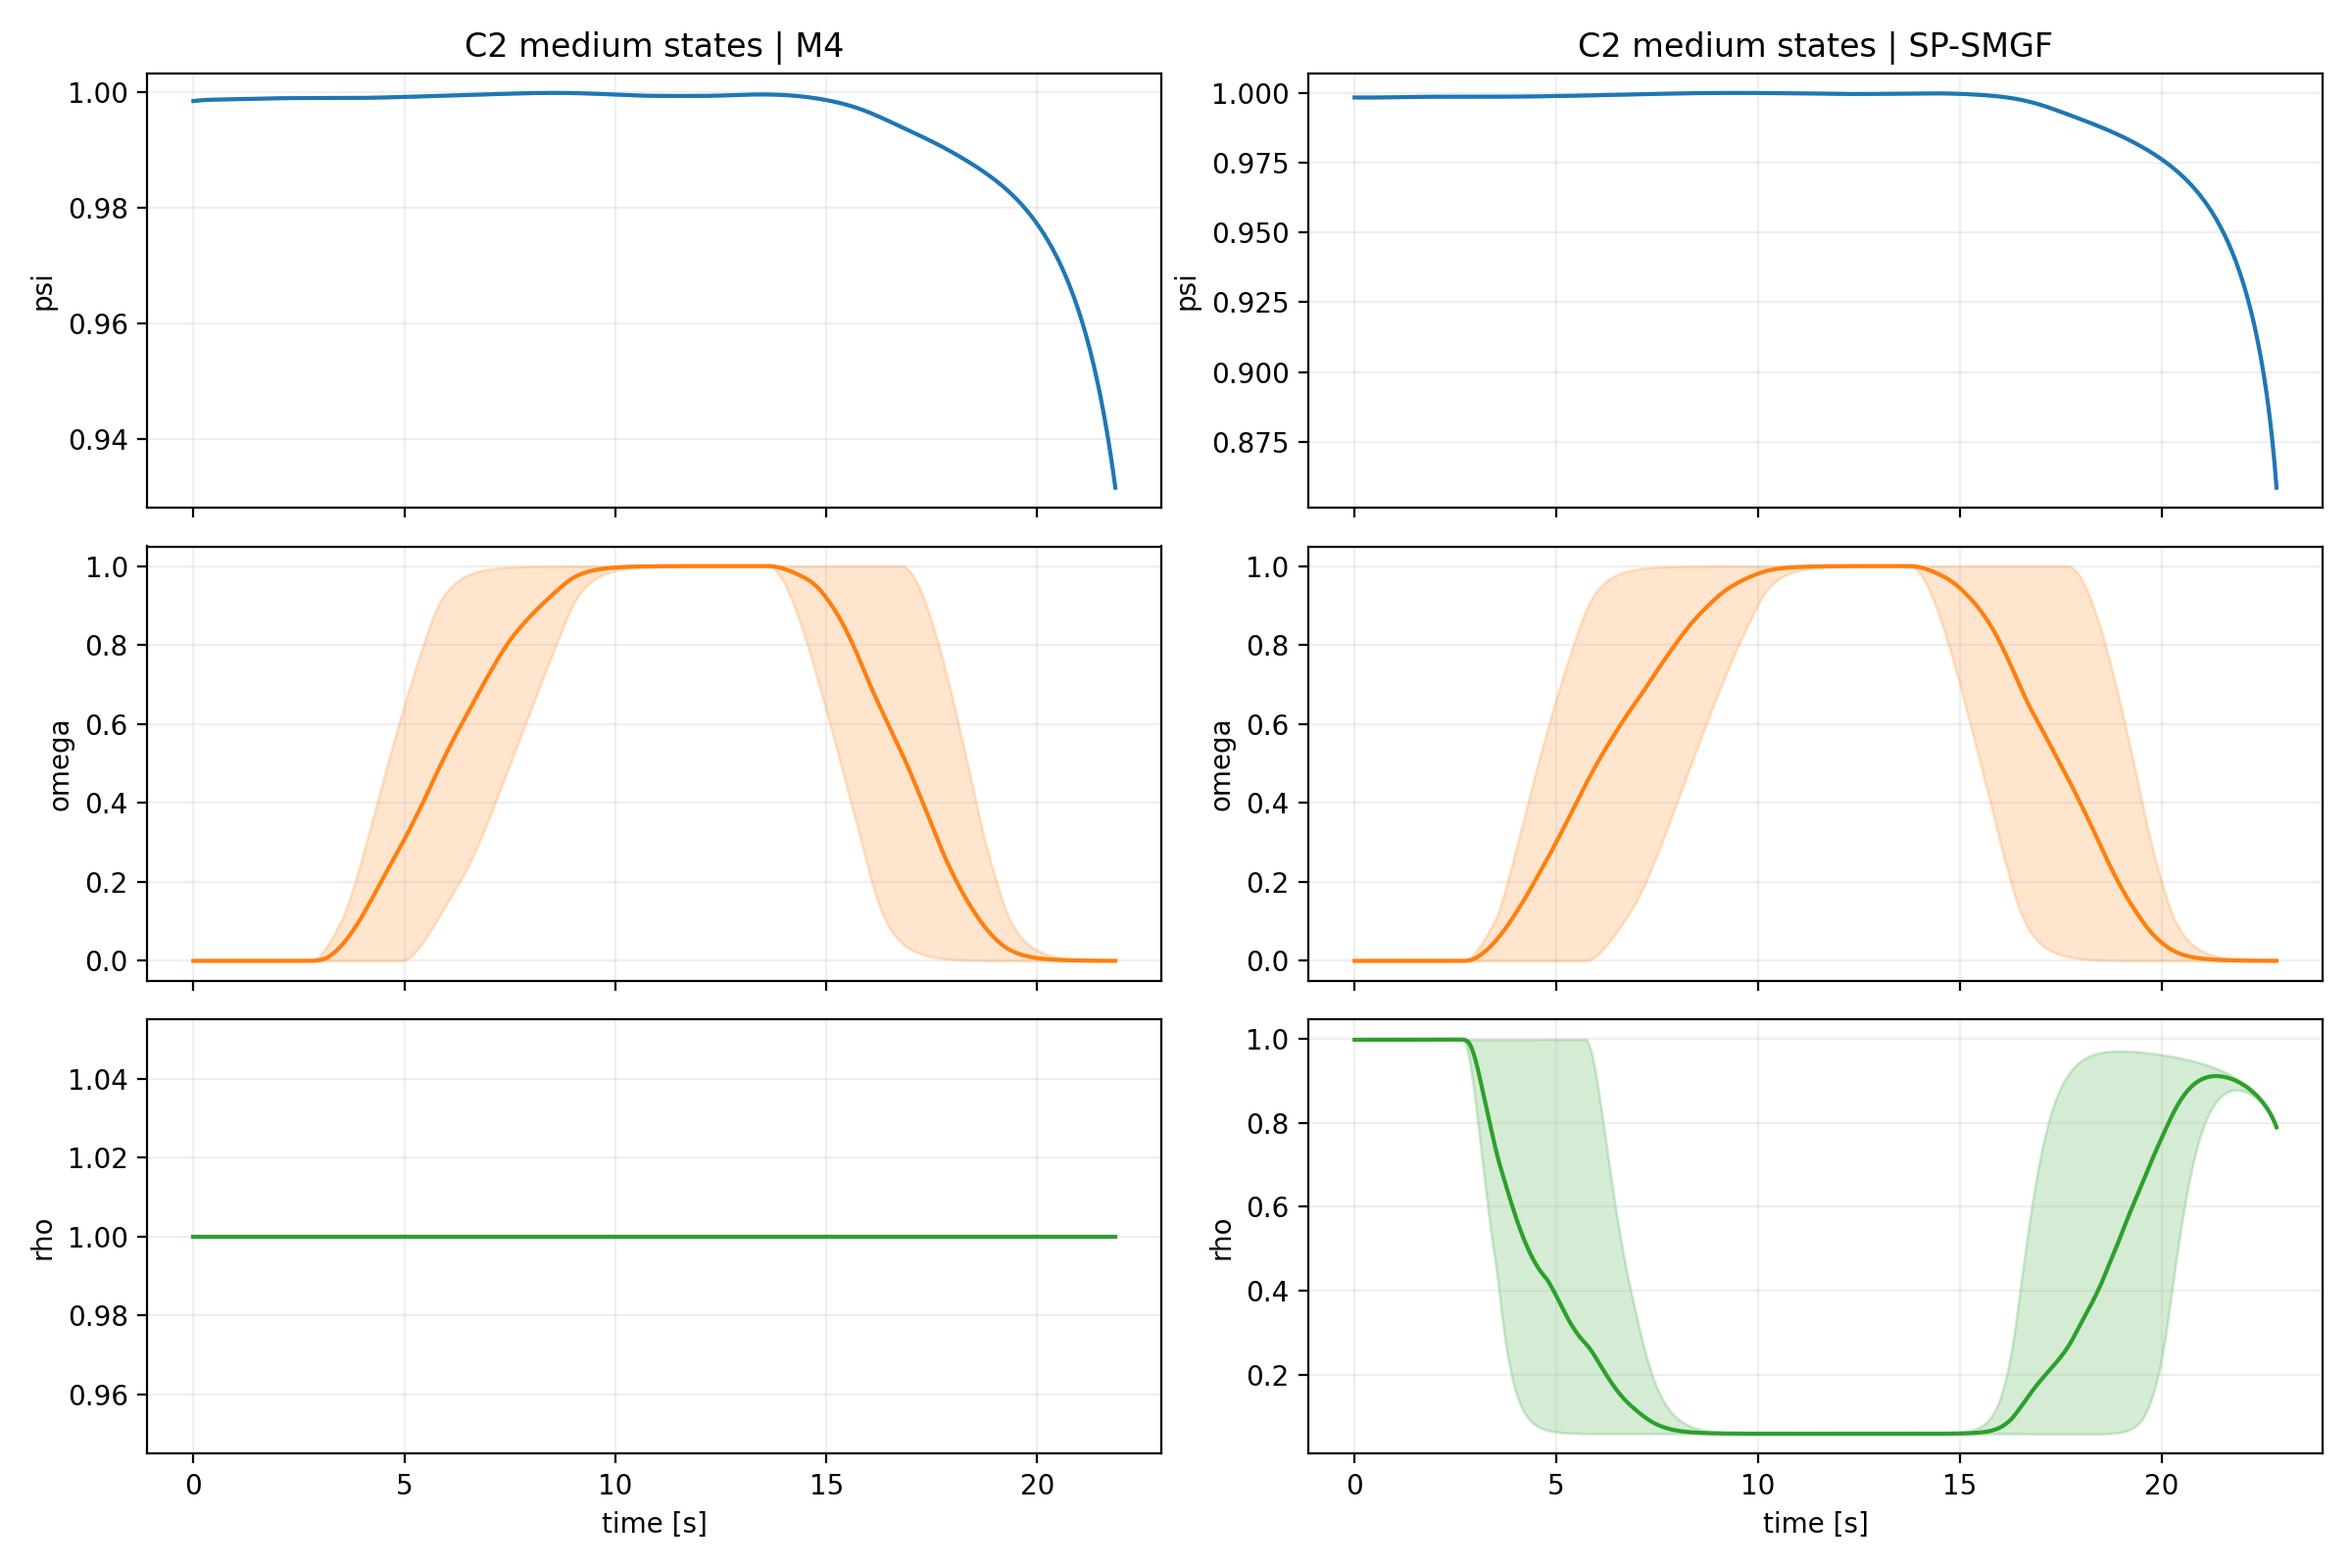
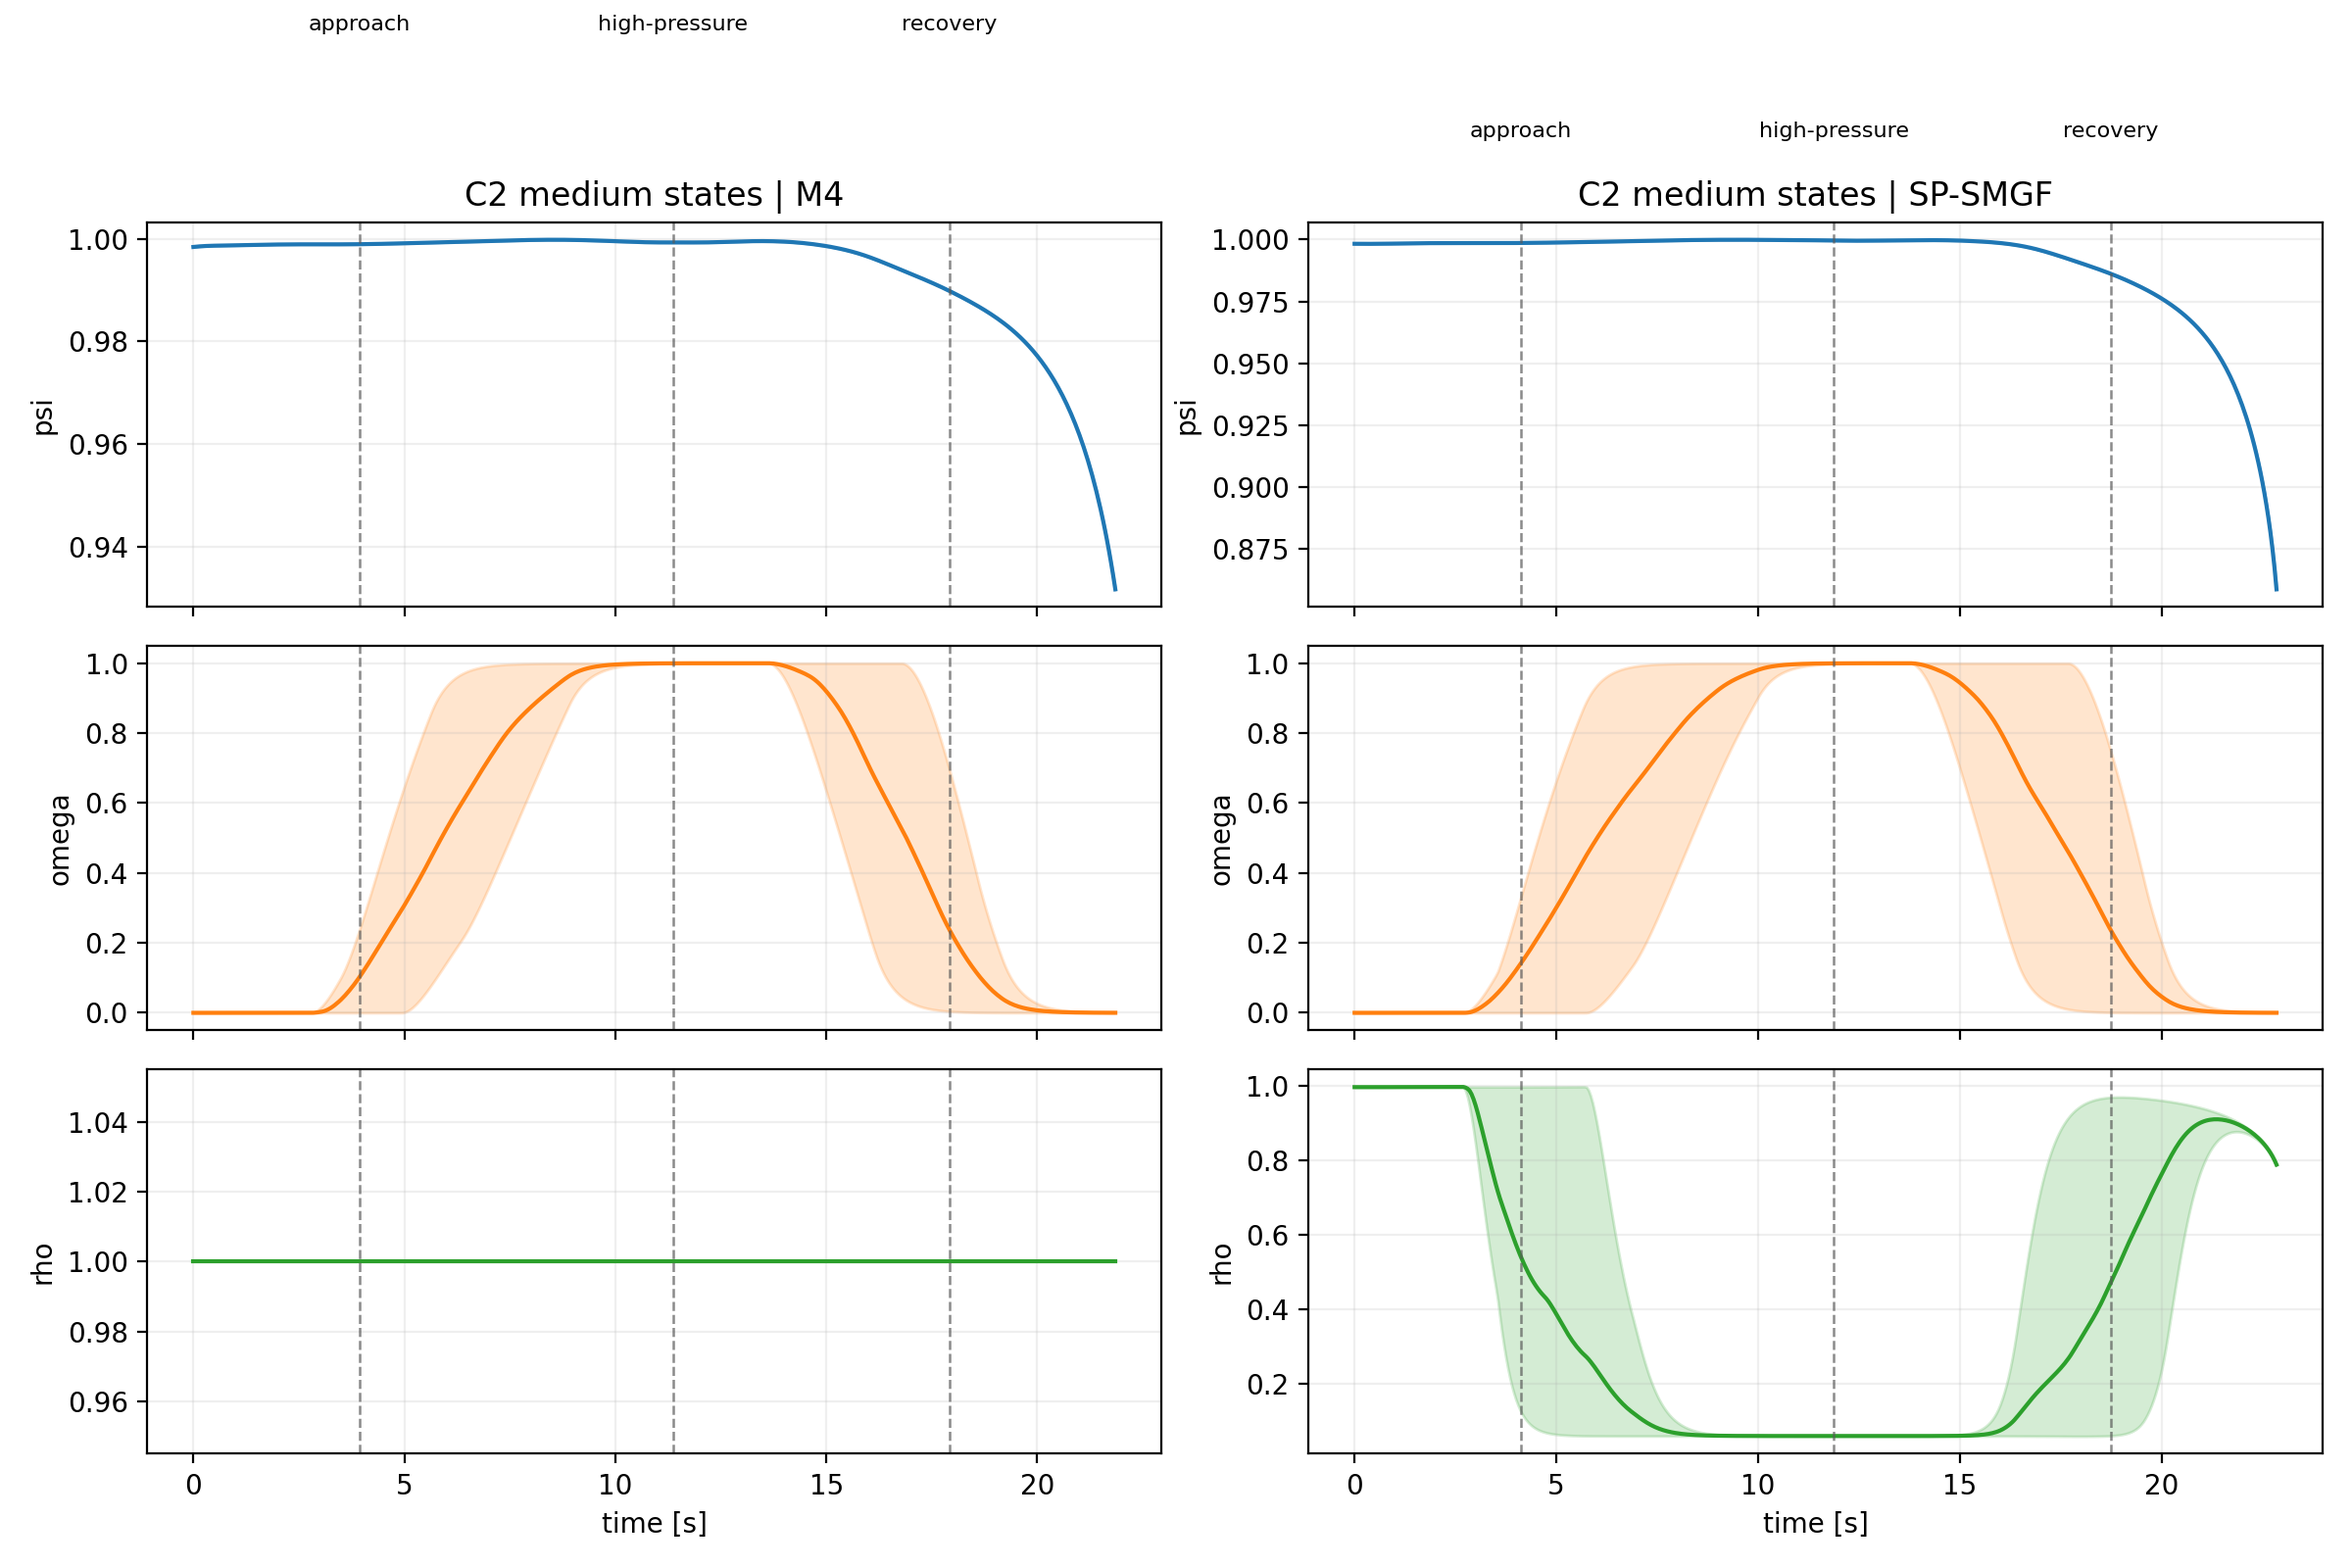
Refine paper figure presentation
Add final-ring visualization for the B3 encirclement comparison, mark phase stages in the C-state plot, and clarify which figures belong in the main text versus supplementary materials.

diff --git a/src/smgf/plot_phase1.py b/src/smgf/plot_phase1.py
@@ -4,6 +4,7 @@ import json
 from pathlib import Path
 
 import matplotlib.pyplot as plt
+import numpy as np
 import pandas as pd
 
 
@@ -32,7 +33,7 @@ def _truncate_by_time(df: pd.DataFrame, end_time: float) -> pd.DataFrame:
     return df[df["time"] <= end_time].copy()
 
 
-def _plot_trajectory(ax, case: dict, title: str) -> None:
+def _plot_trajectory(ax, case: dict, title: str, show_final_ring: bool = False) -> None:
     metadata = case["metadata"]
     trajectory = _truncate_by_time(case["trajectory"], metadata["recommended_plot_end_time"])
     target = _truncate_by_time(case["target"], metadata["recommended_plot_end_time"])
@@ -46,6 +47,17 @@ def _plot_trajectory(ax, case: dict, title: str) -> None:
         ax.plot(group["x"], group["y"], linewidth=1.4)
         ax.scatter(group.iloc[0]["x"], group.iloc[0]["y"], s=18, marker="o")
         ax.scatter(group.iloc[-1]["x"], group.iloc[-1]["y"], s=24, marker="x")
+
+    if show_final_ring and len(trajectory["agent"].unique()) >= 3 and not target.empty:
+        final_step = trajectory["step"].max()
+        final = trajectory[trajectory["step"] == final_step].copy()
+        target_final = target[target["step"] == target["step"].max()].iloc[0]
+        center = np.array([target_final["target_x"], target_final["target_y"]], dtype=float)
+        final["angle"] = np.mod(np.arctan2(final["y"] - center[1], final["x"] - center[0]), 2 * np.pi)
+        final = final.sort_values("angle")
+        ring_x = final["x"].tolist() + [final.iloc[0]["x"]]
+        ring_y = final["y"].tolist() + [final.iloc[0]["y"]]
+        ax.plot(ring_x, ring_y, color="tab:purple", linewidth=1.5, linestyle="-.", label="final ring")
 
     ax.plot(target["target_x"], target["target_y"], "k--", linewidth=2.0, label="target")
     ax.plot(target["pred_target_x"], target["pred_target_y"], color="tab:red", linestyle=":", linewidth=1.4, label="predicted")
@@ -79,6 +91,20 @@ def _plot_state_curves(axs, case: dict, title: str) -> None:
         ax.fill_between(mean_state["time"], mean_state[min_key], mean_state[max_key], color=color, alpha=0.2)
         ax.set_ylabel(label)
         ax.grid(True, alpha=0.2)
+
+    t_end = float(mean_state["time"].max())
+    stage_marks = [
+        (0.18 * t_end, "approach"),
+        (0.52 * t_end, "high-pressure"),
+        (0.82 * t_end, "recovery"),
+    ]
+    for ax in axs:
+        for stage_time, _ in stage_marks:
+            ax.axvline(stage_time, color="0.35", linestyle="--", linewidth=0.9, alpha=0.7)
+    top_ax = axs[0]
+    y_top = float(mean_state["psi_max"].max()) if not mean_state.empty else 1.0
+    for stage_time, label in stage_marks:
+        top_ax.text(stage_time, y_top + 0.04, label, ha="center", va="bottom", fontsize=8)
     axs[-1].set_xlabel("time [s]")
     axs[0].set_title(title)
 
@@ -148,8 +174,8 @@ def plot_phase1_figures(repo_root: Path, data_root: Path, output_root: Path) -> 
 
     # B3 comparison
     fig, axes = plt.subplots(1, 2, figsize=(12, 5))
-    _plot_trajectory(axes[0], case_map["B3_open_encirclement_m7"], "B3 open encirclement | M7")
-    _plot_trajectory(axes[1], case_map["B3_open_encirclement_m9"], "B3 open encirclement | M9")
+    _plot_trajectory(axes[0], case_map["B3_open_encirclement_m7"], "B3 open encirclement | M7", show_final_ring=True)
+    _plot_trajectory(axes[1], case_map["B3_open_encirclement_m9"], "B3 open encirclement | M9", show_final_ring=True)
     axes[1].legend(loc="best", fontsize=8)
     fig.tight_layout()
     fig.savefig(output_root / "B3_open_encirclement_compare.png", dpi=200)

diff --git a/docs/phase1/论文用图清单.md b/docs/phase1/论文用图清单.md
@@ -4,7 +4,7 @@
 
 本清单用于约束论文主图数量，避免大量轨迹图堆叠，同时保证每一张图都服务于主叙事。
 
-## 2. 建议保留的主图
+## 2. 正文主图
 
 ### 图 1：方法结构图
 
@@ -37,7 +37,8 @@
 用途：
 
 1. 展示主干框架在开阔移动目标围捕中可运行；
-2. 若并排放 `M7/M9`，可同时说明角度覆盖增强效果。
+2. 若并排放 `M7/M9`，可同时说明角度覆盖增强效果；
+3. 建议在最终时刻按极角把智能体连成闭环，以强化围捕几何质量对比。
 
 ### 图 4：C组关键对比轨迹图
 
@@ -62,7 +63,8 @@
 用途：
 
 1. 将轨迹变化与状态调制联系起来；
-2. 支撑“原始标量调制会过度削弱拓扑支撑”的讨论。
+2. 支撑“原始标量调制会过度削弱拓扑支撑”的讨论；
+3. 建议在图中标出 `approach / high-pressure / recovery` 三个阶段。
 
 ### 图 6：D1 趋势图
 
@@ -95,7 +97,21 @@
 1. 作为综合耦合边界的可视化证据；
 2. 不必漂亮，但要能说明“不是简单靠降速度或结构增强就能解决”。
 
-## 3. 建议保留的主表
+## 3. 补充材料图
+
+建议放入补充材料而不是正文主图区：
+
+1. `A2_obstacle_avoidance.png`
+2. `D1_prediction_sample.png`
+3. `E1_boundary_case.png`
+
+说明：
+
+1. `A2` 主要承担基础行为展示功能；
+2. `D1` 正文更依赖趋势图，不需要单个失败轨迹占据主版面；
+3. `E1` 失败边界图可以保留，但更适合放在补充材料中支撑边界讨论。
+
+## 4. 建议保留的主表
 
 ### 表 1：A/B/C/D/F 关键结果主表
 
@@ -132,7 +148,7 @@
 3. `obs_collision_rate`
 4. `agent_collision_rate`
 
-## 4. 对应导出数据
+## 5. 对应导出数据
 
 当前 MATLAB 绘图数据建议统一从：
 
@@ -150,7 +166,7 @@
 6. `D1_prediction_trend`
 7. `E1_boundary_case`
 
-## 5. 原则
+## 6. 原则
 
 1. 不要为每个场景放太多轨迹图；
 2. 主图只保留“正例 + 对比 + 边界”三类；
